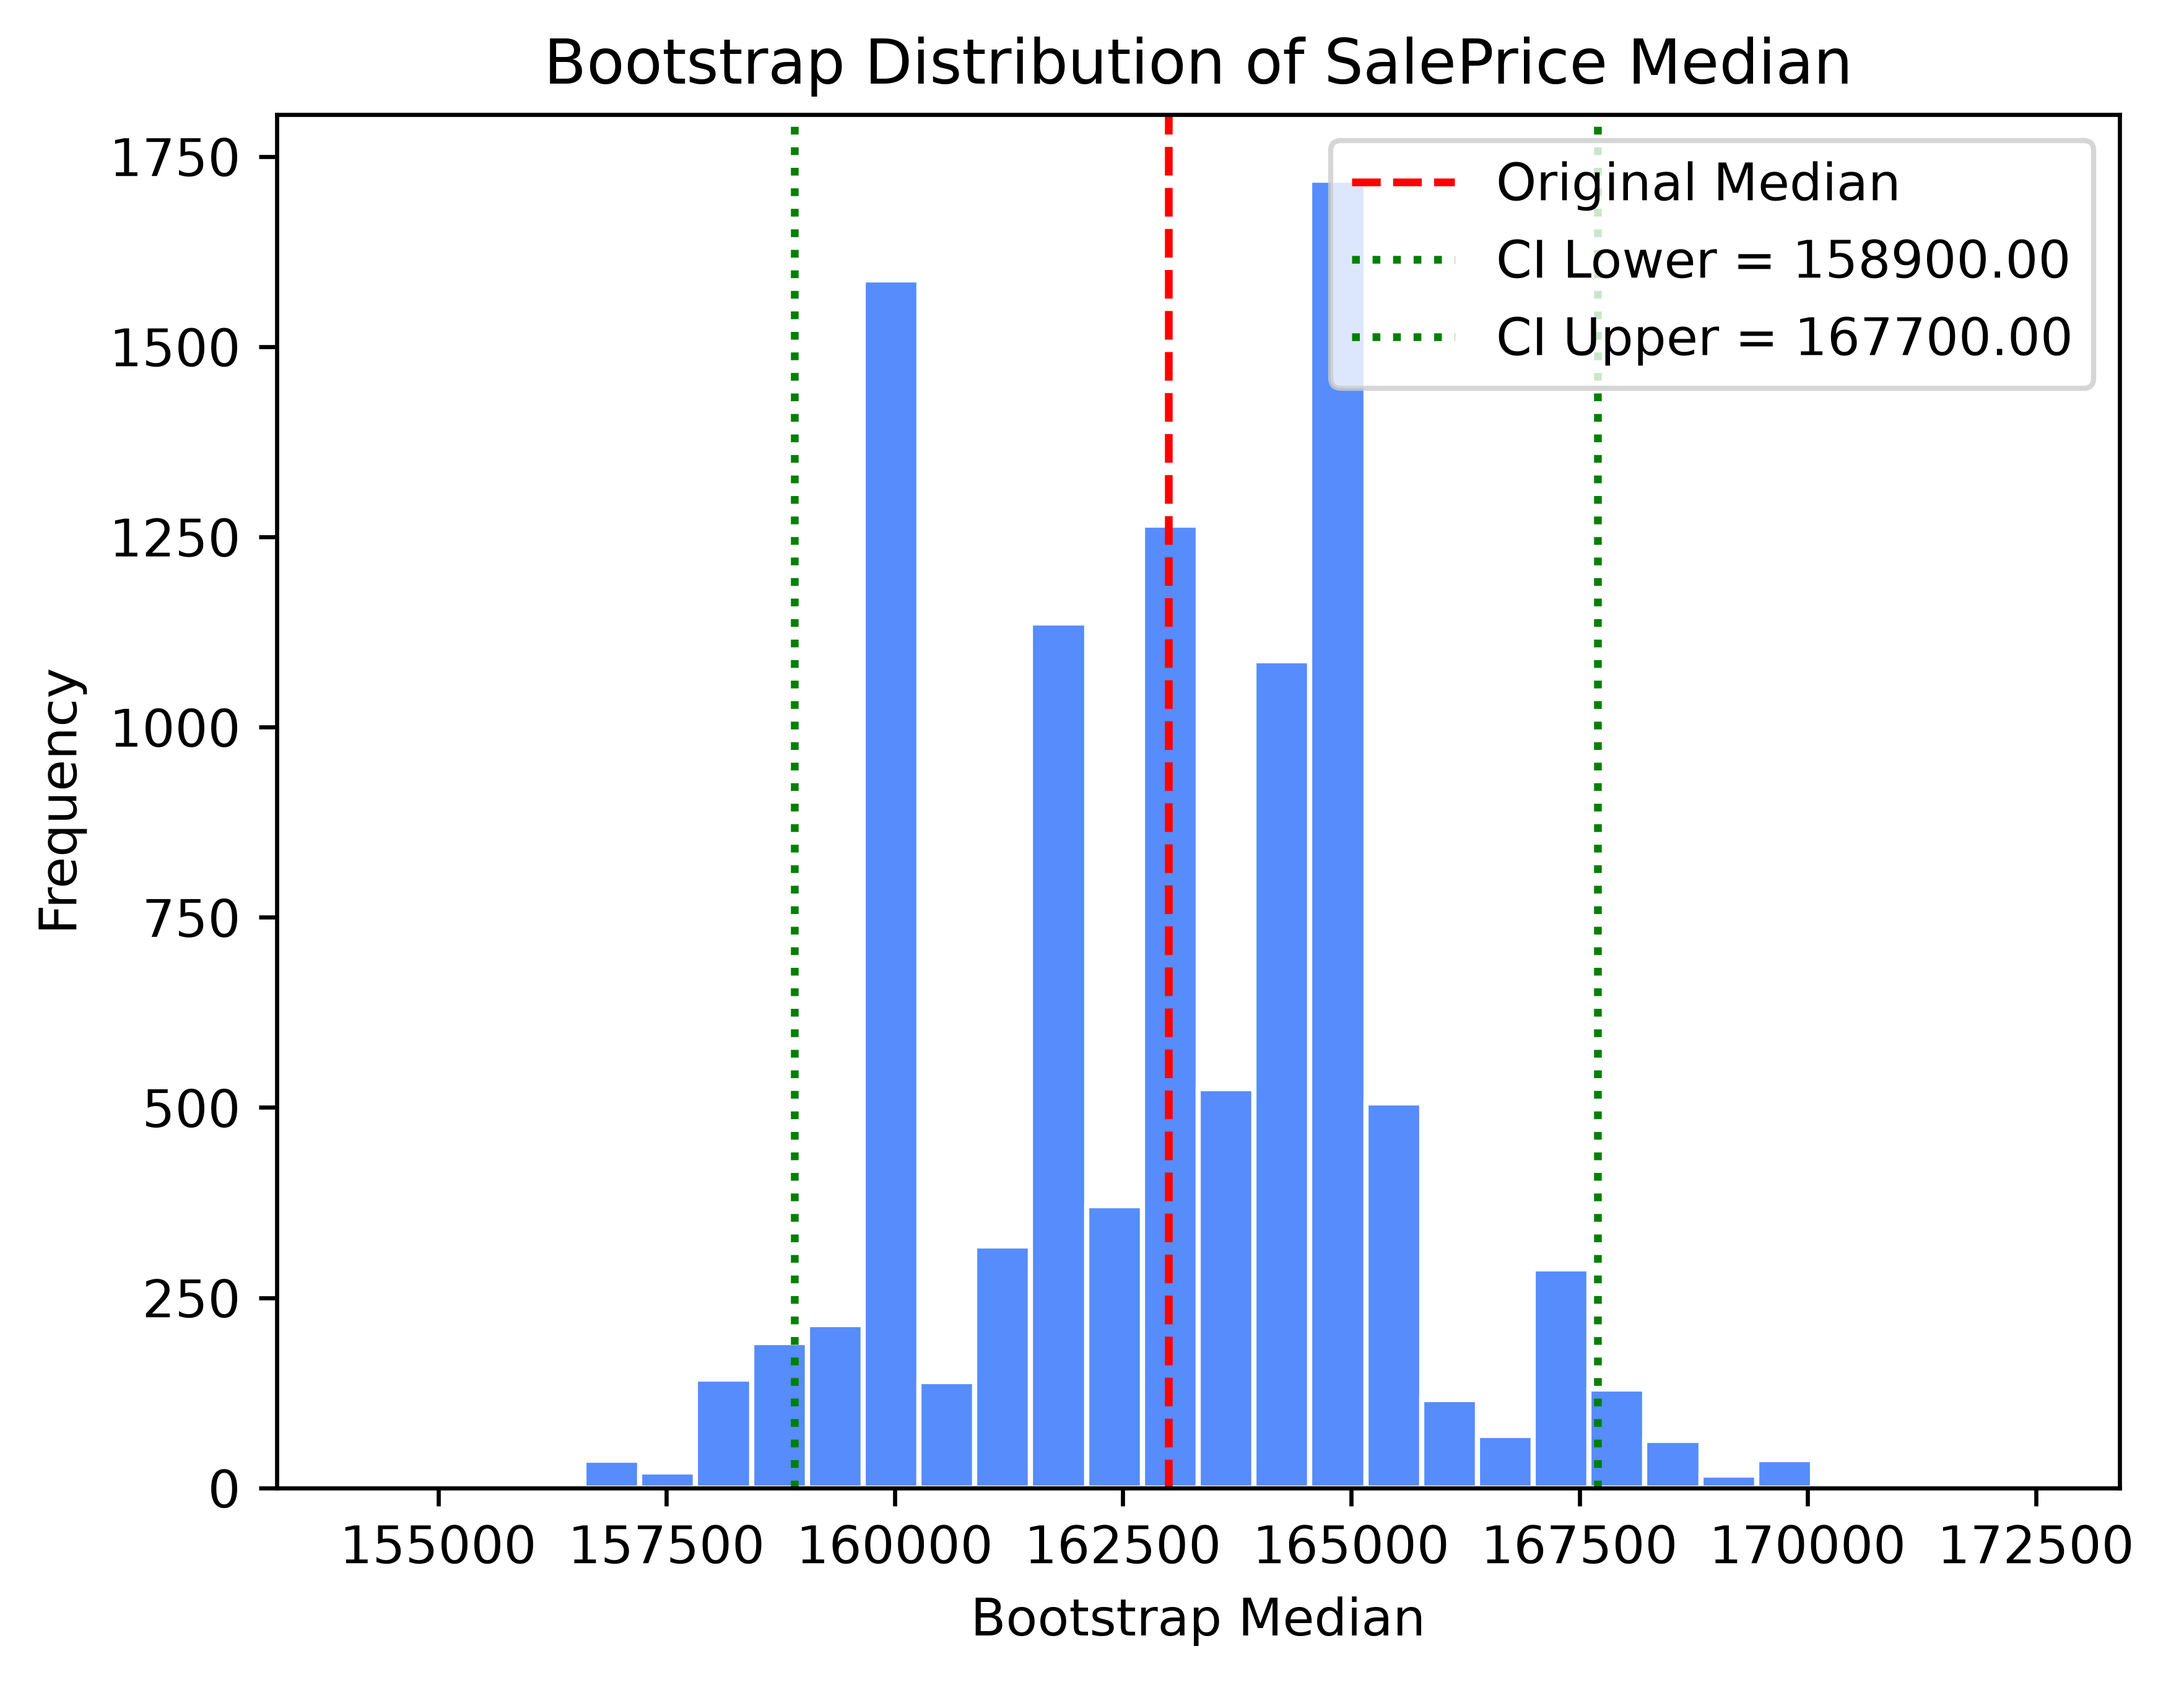
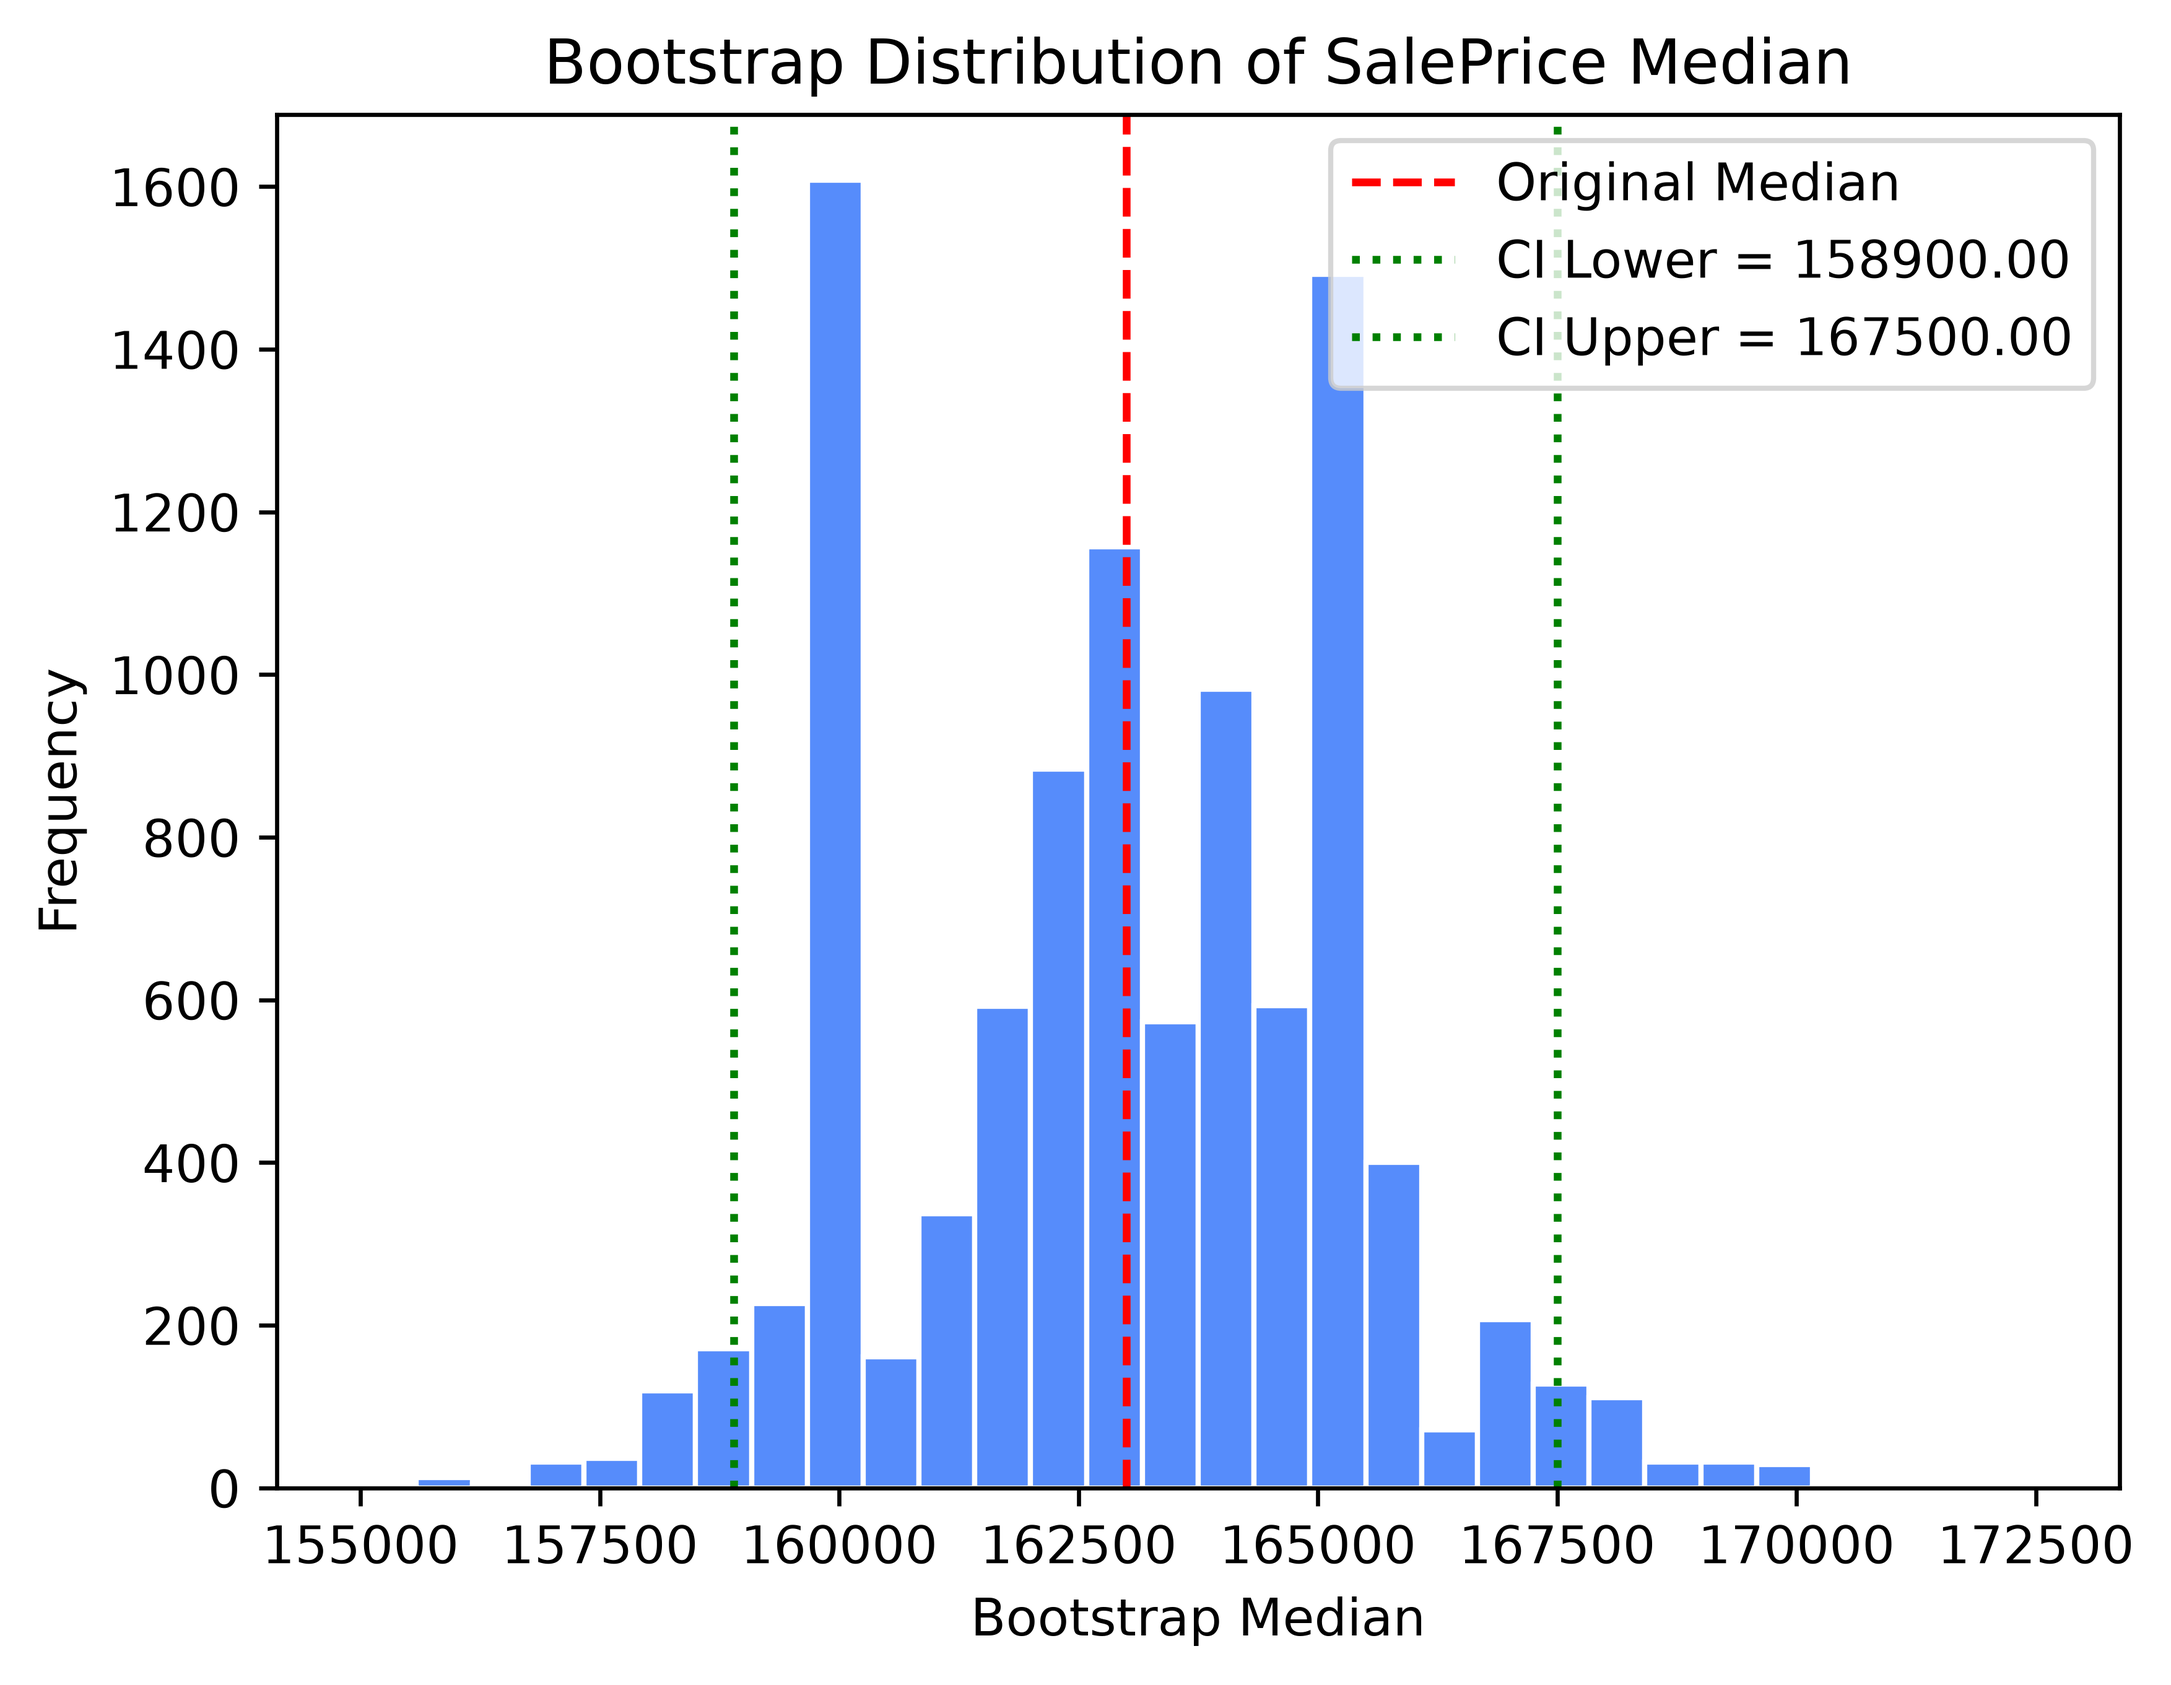
Added "Standard Normal Distribution and QQ-plot" section to Notebook 02. Updated .gitignore and requirements.txt.

diff --git a/README.md b/README.md
@@ -6,7 +6,7 @@ A multi-notebook project on statistics and machine learning, built around the Am
 
 ## Project Status
 
-**Work in progress.** This project is being built as a series of notebooks that walk through statistics and machine learning from first principles, each layering on the previous one. Notebooks `01` is complete and `02` is in progress; the following four are planned:
+**Work in progress.** This project is being built as a series of notebooks that walk through statistics and machine learning from first principles, each layering on the previous one. Notebook `01` is complete; notebook `02` is in progress (sampling, bootstrap, and QQ-plot diagnostics are in, but the notebook is not yet considered final); the following four are planned:
 
 | Notebook                             | Focus                                                     | Status   |
 |--------------------------------------|-----------------------------------------------------------|----------|
@@ -33,10 +33,12 @@ A multi-notebook project on statistics and machine learning, built around the Am
 - **Empirical standard error matches the theoretical `s/√n`.** For each of `n ∈ {5, 30, 100}`, the standard deviation of 1,000 simulated sample means sits on top of the theoretical curve, confirming the simulation reproduces the analytical result.
 - **Standard error shrinks with sample size, as expected.** Larger `n` gives a smaller SE, which is why the histograms for `Mean of 30` and `Mean of 100` are visibly narrower than `Mean of 5` (or the raw data).
 - **Small Monte Carlo gaps are unavoidable.** Each empirical SE is itself an estimate built from 1,000 simulated means, so it differs from theory by a small random amount. Pushing the simulation count to 10,000 or 100,000 would tighten that agreement further.
-- **The sample median is essentially unbiased for `SalePrice`.** From 10,000 bootstrap resamples of size 1,460, the bootstrap median (\$162,939.99) sits within \$61 of the observed median (\$163,000), giving a bias of −\$60.01 (−0.04%), which is well within sampling noise.
-- **The bootstrap SE of the median is ≈ \$2,369.** This is the standard deviation of the bootstrap distribution, used as a Monte Carlo estimate of the standard error of the median (no closed-form SE exists for the sample median).
-- **The 95% bootstrap percentile CI for the median is \$158,900 – \$167,700.** Taken from the 2.5th and 97.5th percentiles of the 10,000 bootstrap medians, this gives a non-parametric uncertainty band for the central price level.
+- **The sample median is essentially unbiased for `SalePrice`.** From 10,000 bootstrap resamples of size 1,460, the bootstrap median (\$162,909.42) sits within \$91 of the observed median (\$163,000), giving a bias of −\$90.58 (−0.06%), which is well within sampling noise.
+- **The bootstrap SE of the median is ≈ \$2,363.** This is the standard deviation of the bootstrap distribution, used as a Monte Carlo estimate of the standard error of the median (no closed-form SE exists for the sample median).
+- **The 95% bootstrap percentile CI for the median is \$158,900 – \$167,500.** Taken from the 2.5th and 97.5th percentiles of the 10,000 bootstrap medians, this gives a non-parametric uncertainty band for the central price level.
 - **The bootstrap distribution is multimodal.** The histogram of bootstrap medians shows several distinct peaks rather than a smooth bell curve, which is expected — the median is a discrete statistic on dollar values, so many bootstrap samples produce identical medians.
+- **`SalePrice` is visibly non-normal on a QQ-plot.** A normal QQ-plot of the raw prices follows the reference line through the bulk of the data but pulls sharply above it in the upper tail, confirming the right skew and heavy upper tail seen in the histogram.
+- **`log1p(SalePrice)` is much closer to normal.** The same QQ-plot on `log1p(SalePrice)` hugs the reference line end to end, with only minor deviations in the lower and upper tails — quantitative evidence that the log transform is the right variance-stabilizer for downstream modelling.
 
 ## Mathematical Concepts Implemented
 
@@ -64,6 +66,9 @@ A multi-notebook project on statistics and machine learning, built around the Am
 - **Bootstrap standard error** — the standard deviation of the 10,000 bootstrap medians, used as a Monte Carlo standard error for the sample median.
 - **Percentile bootstrap confidence interval** — the 2.5th and 97.5th percentiles of the bootstrap distribution taken as the lower and upper bounds of a 95% CI for the median.
 - **Distribution shape interpretation** — explaining the multimodal bootstrap histogram as a consequence of the discrete dollar values of `SalePrice` (many bootstrap samples produce identical medians), rather than treating it as a violation of normality.
+- **Z-score standardization** — `scipy.stats.zscore` applied to `SalePrice` to produce a unit-variance series (verified mean ≈ 0, std ≈ 1), as a precursor to QQ-plot diagnostics against the standard normal.
+- **Normal QQ-plot** — `scipy.stats.probplot` against a normal reference distribution, used to read off deviations from normality in the bulk and the tails. The raw `SalePrice` QQ-plot exposes the heavy upper tail as a clean upward bend in the rightmost points.
+- **Transform-and-compare** — repeating the QQ-plot on `log1p(SalePrice)` to quantify how much the log transform repairs the upper-tail deviation, separating "skewed but linear in the middle" from "approximately normal end to end."
 
 ## Few Visualizations
 
@@ -82,7 +87,8 @@ A multi-notebook project on statistics and machine learning, built around the Am
 |                                                                                                                                                |                                                                                                                                                |
 |------------------------------------------------------------------------------------------------------------------------------------------------|------------------------------------------------------------------------------------------------------------------------------------------------|
 | ![Sampling Distributions of the Mean](figures/02_data_and_sampling_distributions/SamplingDistribution.png)                                     | ![Empirical vs Theoretical Standard Error](figures/02_data_and_sampling_distributions/EmpiricalvsTheoreticalSE.png)                           |
-| ![Bootstrap Distribution of SalePrice Median](figures/02_data_and_sampling_distributions/BootstrapDistributionOfSalePriceMedian.png)          |                                                                                                                                                |
+| ![Bootstrap Distribution of SalePrice Median](figures/02_data_and_sampling_distributions/BootstrapDistributionOfSalePriceMedian.png)          | ![Standardized SalePrice Histogram](figures/02_data_and_sampling_distributions/StandardizedSalePriceHist.png)                                 |
+| ![SalePrice QQ-plot](figures/02_data_and_sampling_distributions/SalePriceQQplot.png)                                                            | ![Log SalePrice QQ-plot](figures/02_data_and_sampling_distributions/LogSalePriceQQplot.png)                                                   |
 
 ## How to Run
 
@@ -102,12 +108,9 @@ Run the cells top to bottom. The dataset is fetched automatically via `sklearn.d
 - `data/cleaned_data.csv` — the fully imputed 1,460 × 81 dataset, ready to be loaded by the downstream notebooks.
 - `figures/01_exploratory_data_analysis/` — 11 publication-quality PNGs (boxplot, histogram, log-density, numeric & categorical feature grids, scatter, hexbin, contour, violin, Pearson & Spearman matrices).
 
-**Outputs of notebook 02:**
+**Outputs of notebook 02 (in progress):**
 
-- `figures/02_data_and_sampling_distributions/` — 3 publication-quality PNGs:
-  - `SamplingDistribution.png` — facet grid of the raw data and the sampling distribution of the mean for *n* = 5, 30, 100.
-  - `EmpiricalvsTheoreticalSE.png` — empirical SE (from 1,000 simulated means) plotted against the theoretical `σ/√n` curve.
-  - `BootstrapDistributionOfSalePriceMedian.png` — histogram of 10,000 bootstrap medians with the observed median marked.
+- `figures/02_data_and_sampling_distributions/` — 6 publication-quality PNGs (sampling-distribution facet grid, empirical vs theoretical SE line plot, bootstrap-median histogram, standardized-`SalePrice` histogram, raw `SalePrice` QQ-plot, and log-`SalePrice` QQ-plot).
 - Stdout — the bootstrap analysis also prints the original median, bootstrap median, bias, bootstrap SE, and the 95% percentile CI.
 
 ## Dataset
